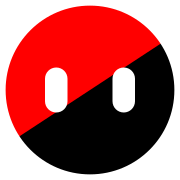
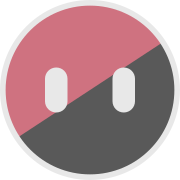
$GitComment

diff --git a/index.html b/index.html
@@ -1,1 +1,1 @@
-<!DOCTYPE html><html lang="en"><head><meta name="title" content="Andrew"/><meta name="description" content="Bilingual socialist, who can easily imagine the end of the world or the end of capitalism. Feminism is for everyone. He/him."><title>Andrew</title><meta charset="utf-8"><meta name="viewport" content="width=device-width,initial-scale=1"><meta property="og:title" content="Andrew"><meta property="og:description" content="Bilingual socialist, who can easily imagine the end of the world or the end of capitalism. Feminism is for everyone. He/him."><meta property="og:type" content="website"><meta property="og:url" content="https://onsamyj.github.io/"><meta property="og:image" content="https://onsamyj.github.io/icon-512.png"><meta name="twitter:card" content="summary_large_image"><meta name="twitter:image" content="https://onsamyj.github.io/icon-512.png"><meta name="twitter:title" content="Andrew"><meta name="twitter:description" content="Bilingual socialist, who can easily imagine the end of the world or the end of capitalism. Feminism is for everyone. He/him."><link rel="icon" href="favicon.ico" sizes="any"><link rel="icon" href="icon.svg" type="image/svg+xml"><link rel="apple-touch-icon" href="apple-touch-icon.png"><link rel="manifest" href="manifest.webmanifest"><link href="style.css" rel="stylesheet"></head><body><header><section><aside><svg viewBox="0 0 64 64"><title>Userpic</title><desc>Simple face: a red and black circle, diagonally divided, with a white border around it and white square-ish eyes. The brightness of the colors is lowered to resemble the Disability Pride flag.</desc><defs><clipPath id="ucircle"><circle cx="32" cy="32" r="31"/></clipPath></defs><circle cx="32" cy="32" r="31" fill="#595959"/><polygon points="0 53, 5 -9, 64 11" clip-path="url(#ucircle)" fill="#CF7280"/><g stroke-linecap="round" fill="none" stroke="#E8E8E8"><g stroke-width="8"><line x1="20" y1="28" x2="20" y2="36"/><line x1="44" y1="28" x2="44" y2="36"/></g><circle cx="32" cy="32" r="31" stroke-width="2"/></g></svg></aside><article><h1>Andrew</h1><p>Bilingual socialist, who can easily imagine the end of the world or the end of capitalism. <span>Feminism is for everyone.</span> <span>He/him.</span></p></article></section></header><main><section><article><h2>Mastodon</h2><dl><dt><a rel="me" href="https://mastodon.online/@alsorew"><em>@</em><span><strong>alsorew</strong>@mastodon.online</span></a></dt><dd>Microblog for thoughts of questionable value.</dd></dl></article><article><h2>Nothing Personal</h2><dl><dt><a href="https://no-pe.netlify.app"><span><strong>no-pe</strong>.netlify.app</span></a></dt><dd>Blog for larger thoughts, still of questionable value.</dd></dl></article><article><h2>BMO</h2><dl><dt><a href="https://techhub.social/@bmo"><em>@</em><span><strong>bmo</strong>@techhub.social</span></a></dt><dd>My <a href="https://en.wikipedia.org/wiki/Rubber_duck_debugging"><span>rubber duck</span></a> for bits of code, art, etc.</dd></dl></article></section></main><footer><section><article><h3>Tech</h3><a href="https://codepen.io/onsamyj/"><span>CodePen</span></a> <a href="https://gist.github.com/onsamyj/"><span>Gist</span></a> <a href="https://github.com/onsamyj/"><span>GitHub</span></a></article><article><h3>Games</h3><a href="https://www.backloggery.com/onsamyj"><span>Backloggery</span></a> <a href="https://mastodon.online/tags/GetThereGames">#<span>GetThereGames</span></a></article><article><h3>Reach out</h3><a href="https://matrix.to/#/@alsorew:matrix.org">@<span><strong>alsorew</strong>:matrix.org</span></a></article></section></footer></body></html>
+<!DOCTYPE html><html lang="en"><head><meta name="title" content="Andrew"/><meta name="description" content="Bilingual socialist, who can easily imagine the end of the world or the end of capitalism. Feminism is for everyone. He/him."><title>Andrew</title><meta charset="utf-8"><meta name="viewport" content="width=device-width,initial-scale=1"><meta name="color-scheme" content="normal"><meta property="og:title" content="Andrew"><meta property="og:description" content="Bilingual socialist, who can easily imagine the end of the world or the end of capitalism. Feminism is for everyone. He/him."><meta property="og:type" content="website"><meta property="og:url" content="https://onsamyj.github.io/"><meta property="og:image" content="https://onsamyj.github.io/icon-512.png"><meta name="twitter:card" content="summary_large_image"><meta name="twitter:image" content="https://onsamyj.github.io/icon-512.png"><meta name="twitter:title" content="Andrew"><meta name="twitter:description" content="Bilingual socialist, who can easily imagine the end of the world or the end of capitalism. Feminism is for everyone. He/him."><link rel="icon" href="favicon.ico" sizes="any"><link rel="icon" href="icon.svg" type="image/svg+xml"><link rel="apple-touch-icon" href="apple-touch-icon.png"><link rel="manifest" href="manifest.webmanifest"><link href="style.css" rel="stylesheet"><link rel="source-code" content="https://github.com/onsamyj/onsamyj.github.io"></head><body><header><section><aside><svg viewBox="0 0 64 64"><title>Userpic</title><desc>Simple face: a red and black circle, diagonally divided, with a white border around it and white square-ish eyes. The brightness of the colors is lowered to resemble the Disability Pride flag.</desc><defs><clipPath id="ucircle"><circle cx="32" cy="32" r="31"/></clipPath></defs><circle cx="32" cy="32" r="31" fill="#595959"/><polygon points="0 53, 5 -9, 64 11" clip-path="url(#ucircle)" fill="#CF7280"/><g stroke-linecap="round" fill="none" stroke="#E8E8E8"><g stroke-width="8"><line x1="20" y1="28" x2="20" y2="36"/><line x1="44" y1="28" x2="44" y2="36"/></g><circle cx="32" cy="32" r="31" stroke-width="2"/></g></svg></aside><article><h1>Andrew</h1><p>Bilingual disabled socialist who can easily imagine the end of the world or the end of capitalism. <span>Feminism is for everyone.</span> <span>He/him.</span></p></article></section></header><main><section><article><h2>Mastodon</h2><dl><dt><a rel="me" href="https://mastodon.online/@alsorew"><em>@</em><span><strong>alsorew</strong>@mastodon.online</span></a></dt><dd>Microblog for thoughts of questionable value.</dd></dl></article><article><h2>Nothing Personal</h2><dl><dt><a href="https://no-pe.netlify.app"><span><strong>no-pe</strong>.netlify.app</span></a></dt><dd>Blog for larger thoughts, still of questionable value.</dd></dl></article><article><h2>BMO</h2><dl><dt><a href="https://techhub.social/@bmo"><em>@</em><span><strong>bmo</strong>@techhub.social</span></a></dt><dd>My <a href="https://en.wikipedia.org/wiki/Rubber_duck_debugging"><span>rubber duck</span></a> for bits of code, art, etc.</dd></dl></article></section></main><footer><section><article><h3>Tech</h3><a href="https://codepen.io/onsamyj/"><span>CodePen</span></a> <a href="https://gist.github.com/onsamyj/"><span>Gist</span></a> <a href="https://github.com/onsamyj/"><span>GitHub</span></a></article><article><h3>Games</h3><a href="https://www.backloggery.com/onsamyj"><span>Backloggery</span></a> <a href="https://mastodon.online/tags/GetThereGames">#<span>GetThereGames</span></a></article><article><h3>Reach out</h3><a href="https://matrix.to/#/@alsorew:matrix.org">@<span><strong>alsorew</strong>:matrix.org</span></a></article></section></footer></body></html>

diff --git a/style.css b/style.css
@@ -1,1 +1,1 @@
-@font-face{font-display:auto;font-family:Montserrat;font-style:normal;font-weight:400;src:url(fonts/montserrat-v26-latin-regular.woff2) format("woff2")}@font-face{font-display:auto;font-family:Montserrat;font-style:italic;font-weight:400;src:url(fonts/montserrat-v26-latin-italic.woff2) format("woff2")}@font-face{font-display:auto;font-family:Montserrat;font-style:normal;font-weight:700;src:url(fonts/montserrat-v26-latin-700.woff2) format("woff2")}@font-face{font-display:auto;font-family:Montserrat;font-style:italic;font-weight:700;src:url(fonts/montserrat-v26-latin-700italic.woff2) format("woff2")}*{position:relative;padding:0;margin:0;border:0;font-size:100%;font:inherit;vertical-align:baseline;box-sizing:border-box}html{-webkit-text-size-adjust:100%;height:100%}body{font-family:Montserrat,sans-serif;line-height:2rem;font-size:1rem;min-height:100%}body,footer,header,main,section{display:flex;flex-flow:column;align-items:center;width:100%}footer,header{justify-content:flex-end;flex-grow:1}section{max-width:80rem;padding:1rem}header section,main section{gap:2rem}main section{align-items:flex-start}footer section{flex-flow:row wrap;justify-content:center;gap:0 4rem}footer article{display:flex;flex-flow:row wrap;justify-content:center;gap:0 .5rem}h1,h2,h3,strong{font-weight:700}em{font-style:normal}a{text-decoration:none}a span{text-decoration:underline}h1{font-size:2rem;line-height:4rem}h2{font-size:1.2rem}svg{vertical-align:bottom;height:8rem;width:auto}@media screen and (min-width:40rem){section{padding:2rem;justify-content:space-between}header section{flex-flow:row-reverse;align-items:flex-end}main section{flex-flow:row wrap}dt a em{margin-left:-1rem}}@media screen and (min-width:60rem){svg{height:12rem}}header{color:#ddd}body,dd a span{color:#222}a,a span{color:#22f;text-decoration-color:#22f}a:focus,a:focus span,a:hover,a:hover span{color:#f22;text-decoration-color:#f22}body{background:#ddd}header{background:#222}
+@font-face{font-display:auto;font-family:Montserrat;font-style:normal;font-weight:400;src:url(fonts/montserrat-v26-latin-regular.woff2) format("woff2")}@font-face{font-display:auto;font-family:Montserrat;font-style:italic;font-weight:400;src:url(fonts/montserrat-v26-latin-italic.woff2) format("woff2")}@font-face{font-display:auto;font-family:Montserrat;font-style:normal;font-weight:700;src:url(fonts/montserrat-v26-latin-700.woff2) format("woff2")}@font-face{font-display:auto;font-family:Montserrat;font-style:italic;font-weight:700;src:url(fonts/montserrat-v26-latin-700italic.woff2) format("woff2")}*{position:relative;padding:0;margin:0;border:0;font-size:100%;font:inherit;vertical-align:baseline;box-sizing:border-box}html{-webkit-text-size-adjust:100%;height:100%}body{font-family:Montserrat,sans-serif;line-height:2rem;font-size:1rem;min-height:100%}body,footer,header,main,section{display:flex;flex-flow:column;align-items:center;width:100%}footer,header{justify-content:flex-end;flex-grow:1}section{max-width:80rem;padding:1rem}header section,main section{gap:2rem}main section{align-items:flex-start}footer section{flex-flow:row wrap;justify-content:center;gap:0 4rem}footer article{display:flex;flex-flow:row wrap;justify-content:center;gap:0 .5rem}h1,h2,h3,strong{font-weight:700}em{font-style:normal}a{text-decoration:none}a span{text-decoration:underline}h1{font-size:2rem;line-height:4rem}h2{font-size:1.2rem}svg{vertical-align:bottom;height:8rem;width:auto}@media screen and (min-width:40rem){section{padding:2rem;justify-content:space-between}header section{flex-flow:row-reverse;align-items:flex-end}main section{flex-flow:row wrap}dt a em{margin-left:-1rem}}@media screen and (min-width:60rem){svg{height:12rem}}header{color:#ccc}body{color:#333}a,a span{color:#11d;text-decoration-color:#11f}a:focus,a:focus span,a:hover,a:hover span{color:#811;text-decoration-color:#811}body{background:#ddd}header{background:#222}

diff --git a/README.md b/README.md
@@ -2,7 +2,44 @@
 
 [onsamyj.github.io](https://onsamyj.github.io/)
 
+Bilingual disabled socialist who can easily imagine the end of the world or the end of capitalism. Feminism is for everyone. He/him.
+
 [![CC0](https://img.shields.io/badge/CC0-Public_Domain-informational?logo=unlicense)](https://creativecommons.org/publicdomain/zero/1.0/)
+
+## Mastodon
+
+[@**alsorew**@mastodon.online](https://mastodon.online/@alsorew)
+
+Microblog for thoughts of questionable value.
+
+## Nothing Personal
+
+[**no-pe**.netlify.app](https://no-pe.netlify.app/)
+
+Blog for larger thoughts, still of questionable value.
+
+## BMO
+
+[@**bmo**@techhub.social](https://techhub.social/@bmo)
+
+My [rubber duck](https://en.wikipedia.org/wiki/Rubber_duck_debugging) for bits of code, art, etc.
+
+---
+
+### Tech
+
+- [CodePen](https://codepen.io/onsamyj/)
+- [Gist](https://gist.github.com/onsamyj/)
+- [GitHub](https://github.com/onsamyj/)
+
+### Games
+
+- [Backloggery](https://www.backloggery.com/onsamyj)
+- [#GetThereGames](https://mastodon.online/tags/GetThereGames)
+
+### Reach out
+
+- [@**alsorew**:matrix.org](https://matrix.to/#/@alsorew:matrix.org)
 
 <!--
 
